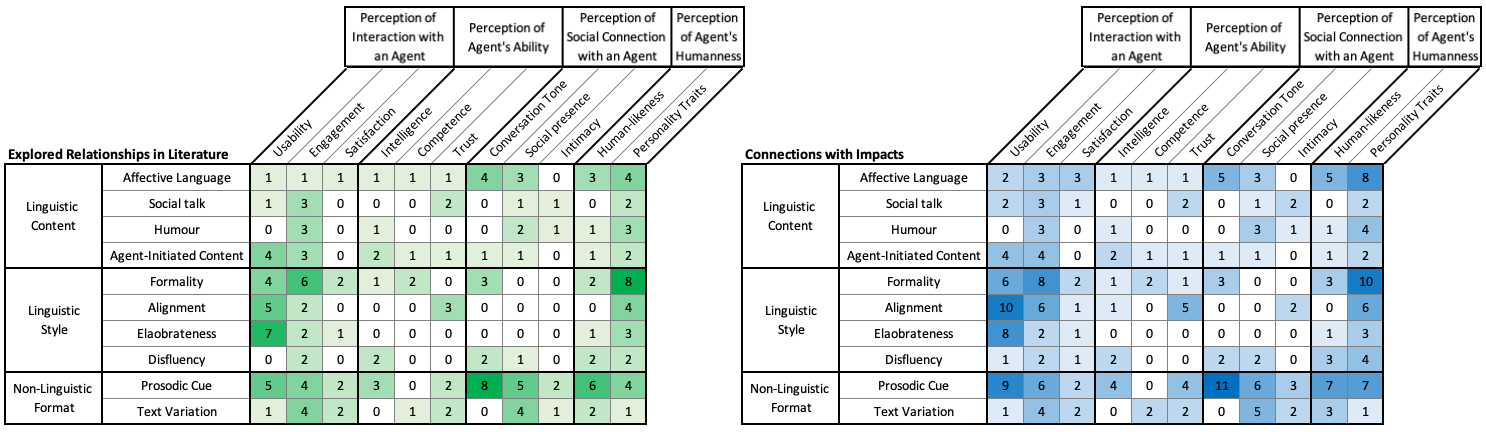
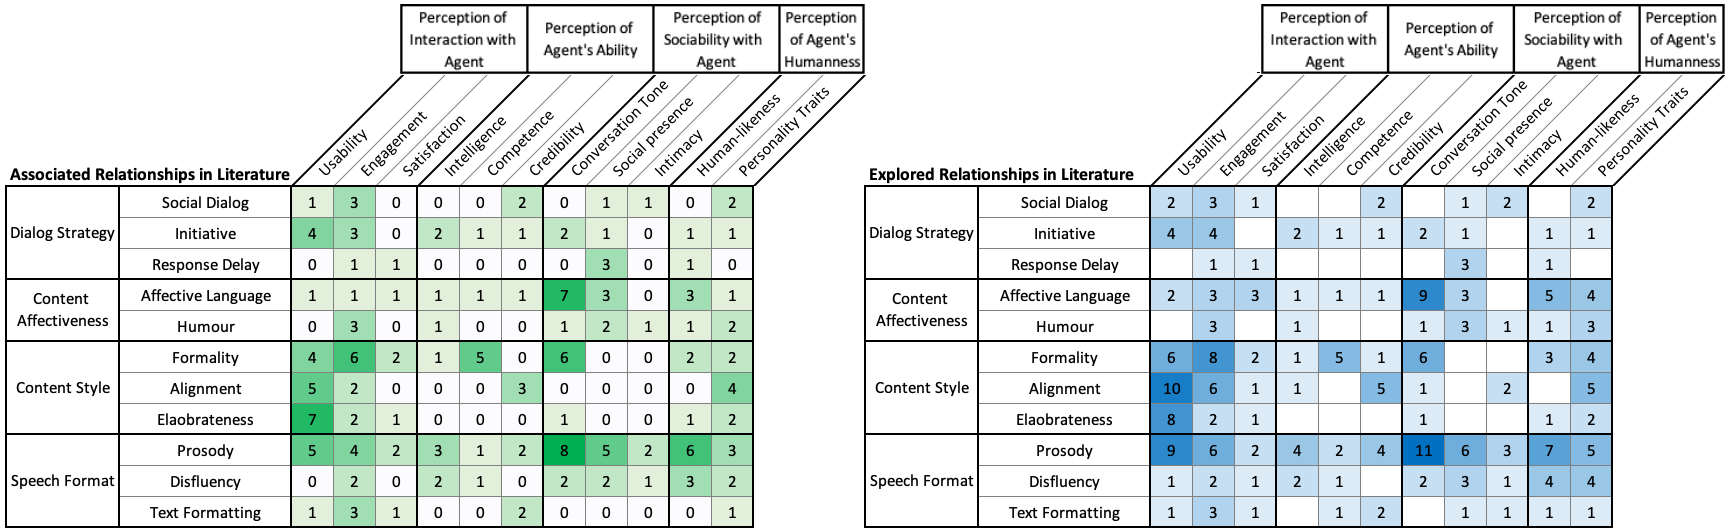
updated perception and architecture taxonomy based on AK feedback

diff --git a/paper.tex b/paper.tex
@@ -110,7 +110,7 @@
 %% other information printed in the page headers. This command allows
 %% the author to define a more concise list
 %% of authors' names for this purpose.
-\renewcommand{\shortauthors}{Anon}
+\renewcommand{\shortauthors}{Wei, Kim, Kuzminykh} %It will be automatically anonymized through the document class property anonymous
 
 %%
 %% The abstract is a short summary of the work to be presented in the
@@ -307,12 +307,12 @@ Overall there is a good coverage of different aspects of perception based on the
 \Xhline{1.2pt}
 \multicolumn{2}{l|}{\textbf{Perception Aspects}} & \textbf{Examples} & \textbf{No. Papers} & \textbf{Papers} 
 \\ \Xhline{1.2pt}
-\multirow{3}{*}{\parbox{0.16\textwidth}{Perception of Interaction with Agent}}
-    & Usability & accuracy, ease of use, efficiency, helpfulness & 23 
+\multirow{3}{*}{\parbox{0.17\textwidth}{Perception of \newline Interaction with Agent}}
+    & Usability & accuracy, ease of use, \newline efficiency, helpfulness & 23 
     & \cite{ashktorab2019resilient}\cmt{[88]}\cite{ceha2022expressive}\cmt{[77]}\cite{chan2021kinvoices}\cmt{[74]}\cite{choi2020nobody}\cmt{[54]}\cite{cuadra2021my}\cmt{[67]}\cite{dubiel2020persuasive}\cmt{[60]}\cite{elsholz2019exploring}\cmt{[61]}\cite{haas2022keep}\cmt{[78]}\cite{habler2019effects}\cmt{[63]}\cite{healey2013relating}\cmt{[39]}\cite{hu2022polite}\cmt{[76]}\cite{huiyang2022improving}\cmt{[17]}\cite{jestin2022effects}\cmt{[81]}\cite{kim2019comparing}\cmt{[89]}\cite{kim2020can}\cmt{[24]}
     \cite{kraus2020effects}\cmt{[64]}\cite{linnemann2018can}\cmt{[15]}\cite{ma2022ask}\cmt{[29]}\cite{miehle2018exploring}\cmt{[51]}\cite{misu2011toward}\cmt{[83]}\cite{roy2021users}\cmt{[71]}\cite{spillner2021talk}\cmt{[18]}\cite{wilhelm2022keep}\cmt{[28]}
 \\ \cline{2-5}
-    & Engagement & enjoyment, annoyance, desirable, intention to use  & 28
+    & Engagement & enjoyment, annoyance, \newline desirable, intention to use  & 28
     & \cite{andrews2012system}\cmt{[38]}\cite{ceha2022expressive}\cmt{[77]}\cite{ceha2021can}\cmt{[57]}\cite{chan2021kinvoices}\cmt{[74]}\cite{cox2022does}\cmt{[27]}\cite{cuadra2021my}\cmt{[67]}\cite{elsholz2019exploring}\cmt{[61]}\cite{fadhil2018effect}\cmt{[52]}\cite{gnewuch2022opposing}\cmt{[20]}\cite{go2021conversational}\cmt{[80]}\cite{healey2013relating}\cmt{[39]}\cite{huiyang2022improving}\cmt{[17]}\cite{jestin2022effects}\cmt{[81]}\cite{kim2020can}\cmt{[24]}\cite{kim2019comparing}\cmt{[89]}
     \cite{lee2020hear}\cmt{[23]}\cite{linnemann2018can}\cmt{[15]}\cite{ma2022ask}\cmt{[29]}\cite{miehle2018exploring}\cmt{[51]}\cite{miyamoto2017improving}\cmt{[46]}\cite{moilanen2022measuring}\cmt{[82]}\cite{roy2021users}\cmt{[71]}\cite{spillner2021talk}\cmt{[18]}\cite{volkel2021examining}\cmt{[69]}\cite{volkel2022user}\cmt{[75]}\cite{xiao2021let}\cmt{[73]}\cite{yang2021effect}\cmt{[72]}\cite{zhu2022effects}\cmt{[26]}    
 \\ \cline{2-5}
@@ -323,15 +323,16 @@ Overall there is a good coverage of different aspects of perception based on the
     & Intelligence & knowledgeable, intelligent, expertise & 11
     & \cite{ashktorab2019resilient}\cmt{[88]}\cite{ceha2021can}\cmt{[57]}\cite{chan2021kinvoices}\cmt{[74]}\cite{cuadra2021my}\cmt{[67]}\cite{dubiel2020persuasive}\cmt{[60]}\cite{feijoo2021effects}\cmt{[70]}\cite{hu2021enhancing}\cmt{[56]}\cite{jeong2019exploring}\cmt{[10]}\cite{spillner2021talk}\cmt{[18]}\cite{volkel2022user}\cmt{[75]}\cite{yang2017perceived}\cmt{[44]} 
 \\ \cline{2-5}
-    & Competence & competent, capable & 4 
-    & \cite{cox2022does}\cmt{[27]}\cite{kraus2020effects}\cmt{[64]}\cite{lee2019s}\cmt{[55]}\cite{westerman2019believe}\cmt{[9]}
+    & Competence & competent, appropriate & 6 
+    & \cite{cox2022does}\cmt{[27]}\cite{kraus2020effects}\cmt{[64]}\cite{jestin2022effects}\cmt{[81]}\cite{lee2019s}\cmt{[55]}\cite{misu2011toward}\cmt{[83]}\cite{westerman2019believe}\cmt{[9]}
 \\ \cline{2-5}
     & Trust & credibility, trustworthy, truthfulness, confidence & 15
     & \cite{andrews2012system}\cmt{[38]}\cite{chan2021kinvoices}\cmt{[74]}\cite{dubiel2020persuasive}\cmt{[60]}\cite{fadhil2018effect}\cmt{[52]}\cite{healey2013relating}\cmt{[39]}\cite{hoegen2019end}\cmt{[31]}\cite{huiyang2022improving}\cmt{[17]}\cite{jestin2022effects}\cmt{[81]}\cite{kraus2020effects}\cmt{[64]}\cite{lee2020hear}\cmt{[23]}\cite{linnemann2018can}\cmt{[15]}\cite{ma2022ask}\cmt{[29]}\cite{seeger2021chatbots}\cmt{[35]}\cite{tolmeijer2021female}\cmt{[62]}\cite{wilhelm2022keep}\cmt{[28]}    
 \\ \Xhline{1.2pt} 
-\multirow{3}{*}{\parbox{0.16\textwidth}{Perception of Social Connection with Agent}}
-    & Conversation Tone & appropriate, expressive, empathetic, persuasive & 13 
-    & \cite{chan2021kinvoices}\cmt{[74]}\cite{cox2022does}\cmt{[27]}\cite{cuadra2021my}\cmt{[67]}\cite{daher2020empathic}\cmt{[58]}\cite{diederich2019emulating}\cmt{[25]}\cite{dubiel2020persuasive}\cmt{[60]}\cite{hu2021enhancing}\cmt{[56]}\cite{jestin2022effects}\cmt{[81]}\cite{misu2011toward}\cmt{[83]}\cite{tolmeijer2021female}\cmt{[62]}\cite{yang2021effect}\cmt{[72]}\cite{yang2017perceived}\cmt{[44]}\cite{zhu2022effects}\cmt{[26]}
+\multirow{3}{*}{\parbox{0.16\textwidth}{Perception of \newline Sociability with Agent}}
+    & Conversation Tone & friendly, warm, empathetic, persuasive & 20 
+    & \cite{ashktorab2019resilient}\cmt{[88]}\cite{chan2021kinvoices}\cmt{[74]}\cite{cox2022does}\cmt{[27]}\cite{cuadra2021my}\cmt{[67]}\cite{daher2020empathic}\cmt{[58]}\cite{diederich2019emulating}\cmt{[25]}\cite{dubiel2020persuasive}\cmt{[60]}\cite{healey2013relating}\cmt{[39]}\cite{hu2021enhancing}\cmt{[56]}\cite{hu2022polite}\cmt{[76]}\cite{jestin2022effects}\cmt{[81]}\cite{khooshabeh2011does}\cmt{[37]}\cite{kim2019comparing}\cmt{[89]}\cite{lee2019s}\cmt{[55]}\cite{miehle2018exploring}\cmt{[51]}
+    \cite{moilanen2022measuring}\cmt{[82]}\cite{tolmeijer2021female}\cmt{[62]}\cite{yang2021effect}\cmt{[72]}\cite{yang2017perceived}\cmt{[44]}\cite{zhu2022effects}\cmt{[26]}
 \\ \cline{2-5}
     & Social Presence & connectedness, familiarity, psychological distance & 18
     & \cite{ceha2022expressive}\cmt{[77]}\cite{ceha2021can}\cmt{[57]}\cite{chan2021kinvoices}\cmt{[74]}\cite{choi2020nobody}\cmt{[54]}\cite{cuadra2021my}\cmt{[67]}\cite{diederich2019emulating}\cmt{[25]}\cite{gnewuch2018faster}\cmt{[19]}\cite{gnewuch2018chatbot}\cmt{[21]}\cite{gnewuch2022opposing}\cmt{[20]}\cite{go2021conversational}\cmt{[80]}\cite{khooshabeh2011does}\cmt{[37]}\cite{kim2020can}\cmt{[24]}\cite{lee2019s}\cmt{[55]}\cite{lubis2019positive}\cmt{[43]}\cite{lubold2016effects}\cmt{[86]}
@@ -341,13 +342,13 @@ Overall there is a good coverage of different aspects of perception based on the
     & \cite{choi2020nobody}\cmt{[54]}\cite{khooshabeh2011does}\cmt{[37]}\cite{kim2020can}\cmt{[24]}\cite{lee2020hear}\cmt{[23]}\cite{linnemann2018can}\cmt{[15]}\cite{lubold2016effects}\cmt{[86]}\cite{westerman2019believe}\cmt{[9]}
 \\ \Xhline{1.2pt}
 \multirow{2}{*}{\parbox{0.16\textwidth}{Perception of Agent's Humanness}}
-    & Human-likeness & human-like, natural, artificial, machine-like & 20
+    & Human-likeness & human-like, natural, \newline artificial, machine-like & 20
     & \cite{ashktorab2019resilient}\cmt{[88]}\cite{ceha2021can}\cmt{[57]}\cite{chan2021kinvoices}\cmt{[74]}\cite{choi2020nobody}\cmt{[54]}\cite{cox2022does}\cmt{[27]}\cite{diederich2019emulating}\cmt{[25]}\cite{gnewuch2018faster}\cmt{[19]}\cite{haas2022keep}\cmt{[78]}\cite{hu2022polite}\cmt{[76]}\cite{jeong2019exploring}\cmt{[10]}\cite{jestin2022effects}\cmt{[81]}\cite{lubis2019positive}\cmt{[43]}\cite{ma2022ask}\cmt{[29]}\cite{misu2011toward}\cmt{[83]}\cite{niewiadomski2013laugh}\cmt{[85]}
     \cite{ouchi2019should}\cmt{[59]}\cite{seeger2021chatbots}\cmt{[35]}\cite{wester2015artificial}\cmt{[14]}\cite{westerman2019believe}\cmt{[9]}\cite{zhu2022effects}\cmt{[26]}    
 \\ \cline{2-5}
-    & Personality Traits & friendly, kind, warm, creepy, likeable, polite & 27
-    & \cite{andrews2012system}\cmt{[38]}\cite{ashktorab2019resilient}\cmt{[88]}\cite{ceha2022expressive}\cmt{[77]}\cite{ceha2021can}\cmt{[57]}\cite{chan2021kinvoices}\cmt{[74]}\cite{cox2022does}\cmt{[27]}\cite{cuadra2021my}\cmt{[67]}\cite{haas2022keep}\cmt{[78]}\cite{habler2019effects}\cmt{[63]}\cite{healey2013relating}\cmt{[39]}\cite{hu2022polite}\cmt{[76]}\cite{huiyang2022improving}\cmt{[17]}\cite{jeong2019exploring}\cmt{[10]}\cite{jestin2022effects}\cmt{[81]}\cite{khooshabeh2011does}\cmt{[37]}
-    \cite{kim2019comparing}\cmt{[89]}\cite{lee2019s}\cmt{[55]}\cite{lee2020hear}\cmt{[23]}\cite{linnemann2018can}\cmt{[15]}\cite{miehle2018exploring}\cmt{[51]}\cite{moilanen2022measuring}\cmt{[82]}\cite{ouchi2019should}\cmt{[59]}\cite{tolmeijer2021female}\cmt{[62]}\cite{volkel2021manipulating}\cmt{[68]}\cite{volkel2022user}\cmt{[75]}\cite{wester2015artificial}\cmt{[14]}\cite{zhu2022effects}\cmt{[26]} 
+    & Personality Traits & likeable, kind, witty, funny, creepy & 20
+    & \cite{andrews2012system}\cmt{[38]}\cite{ceha2022expressive}\cmt{[77]}\cite{ceha2021can}\cmt{[57]}\cite{chan2021kinvoices}\cmt{[74]}\cite{cuadra2021my}\cmt{[67]}\cite{haas2022keep}\cmt{[78]}\cite{habler2019effects}\cmt{[63]}\cite{healey2013relating}\cmt{[39]}\cite{hu2022polite}\cmt{[76]}\cite{huiyang2022improving}\cmt{[17]}\cite{jeong2019exploring}\cmt{[10]}\cite{kim2019comparing}\cmt{[89]}\cite{lee2020hear}\cmt{[23]}\cite{linnemann2018can}\cmt{[15]}\cite{miehle2018exploring}\cmt{[51]}
+    \cite{ouchi2019should}\cmt{[59]}\cite{volkel2021manipulating}\cmt{[68]}\cite{volkel2022user}\cmt{[75]}\cite{wester2015artificial}\cmt{[14]}\cite{zhu2022effects}\cmt{[26]} 
 \\ \Xhline{1.2pt}
 \end{tabular}%
 }
@@ -375,37 +376,50 @@ Overall the spread of conversation architecture elements relevant to anthropomor
 \renewcommand*{\arraystretch}{1.4}
 \begin{tabular}{@{}p{0.17\textwidth} | p{0.14\textwidth} | p{0.25\textwidth} | >{\centering}p{0.09\textwidth} | p{0.34\textwidth} @{}}
 \Xhline{1.2pt}
-\textbf{Element Category} & \textbf{Element} & \textbf{Examples} & \textbf{No. Papers} & \textbf{Papers}
+\multicolumn{2}{l|}{\textbf{Conversation Architecture Elements}} & \textbf{Examples} & \textbf{No. Papers} & \textbf{Papers}
 \\ \Xhline{1.2pt}
-\multirow{4}{*}{Linguistic Content}    & Affective Language & emotional expressions, sentiment-adaptive responses & 11
-& \cite{daher2020empathic}\cmt{[58]}\cite{diederich2019emulating}\cmt{[25]}\cite{healey2013relating}\cmt{[39]}\cite{hu2022polite}\cmt{[76]}\cite{lee2019s}\cmt{[55]}\cite{lubis2019positive}\cmt{[43]}\cite{moilanen2022measuring}\cmt{[82]}\cite{seeger2021chatbots}\cmt{[35]}\cite{volkel2022user}\cmt{[75]}\cite{yang2017perceived}\cmt{[44]}\cite{zhu2022effects}\cmt{[26]}
-\\ \cline{2-5}
-& Social Talk & self-disclosure, social dialogue & 7
+\multirow{3}{*}{Dialog Strategy} & Social Dialog & social talk, self-disclosure  & 7
 & \cite{andrews2012system}\cmt{[38]}\cite{lee2020hear}\cmt{[23]}\cite{lubold2016effects}\cmt{[86]}\cite{moilanen2022measuring}\cmt{[82]}\cite{roy2021users}\cmt{[71]}\cite{volkel2021manipulating}\cmt{[68]}\cite{volkel2022user}\cmt{[75]}
 \\ \cline{2-5}
+
+& Initiative & proactive dialogue, conversation \newline repair & 4
+& \cite{ashktorab2019resilient}\cmt{[88]}\cite{cuadra2021my}\cmt{[67]}\cite{kraus2020effects}\cmt{[64]}\cite{xiao2021let}\cmt{[73]}
+\\ \cline{2-5}
+
+& Response Delay & response delay, typing indicator & 4
+& \cite{gnewuch2018faster}\cmt{[19]}\cite{gnewuch2018chatbot}\cmt{[21]}\cite{gnewuch2022opposing}\cmt{[20]}\cite{seeger2021chatbots}\cmt{[35]}
+\\ \Xhline{1.2pt}
+
+\multirow{2}{*}{Content Affectiveness} & Affective Language & emotional expressions, sentiment-adaptive responses & 11
+& \cite{daher2020empathic}\cmt{[58]}\cite{diederich2019emulating}\cmt{[25]}\cite{healey2013relating}\cmt{[39]}\cite{hu2022polite}\cmt{[76]}\cite{lee2019s}\cmt{[55]}\cite{lubis2019positive}\cmt{[43]}\cite{moilanen2022measuring}\cmt{[82]}\cite{seeger2021chatbots}\cmt{[35]}\cite{volkel2022user}\cmt{[75]}\cite{yang2017perceived}\cmt{[44]}\cite{zhu2022effects}\cmt{[26]}
+\\ \cline{2-5}
+
 & Humour & humorous content, jokes & 5
 & \cite{ceha2021can}\cmt{[57]}\cite{go2021conversational}\cmt{[80]}\cite{khooshabeh2011does}\cmt{[37]}\cite{miyamoto2017improving}\cmt{[46]}\cite{volkel2021manipulating}\cmt{[68]}
-\\ \cline{2-5}
-& Agent-Initiated Content & proactive dialogue, conversation repair & 4
-& \cite{ashktorab2019resilient}\cmt{[88]}\cite{cuadra2021my}\cmt{[67]}\cite{kraus2020effects}\cmt{[64]}\cite{xiao2021let}\cmt{[73]}
 \\ \Xhline{1.2pt}
-\multirow{4}{*}{Linguistic Style} & Formality & formal vs. casual, honorific expressions & 9
+
+\multirow{3}{*}{Content Style} & Formality & formal vs. casual, honorific \newline expressions & 9
 & \cite{cox2022does}\cmt{[27]}\cite{elsholz2019exploring}\cmt{[61]}\cite{habler2019effects}\cmt{[63]}\cite{jestin2022effects}\cmt{[81]}\cite{kim2019comparing}\cmt{[89]}\cite{ma2022ask}\cmt{[29]}\cite{moilanen2022measuring}\cmt{[82]}\cite{ouchi2019should}\cmt{[59]}\cite{volkel2022user}\cmt{[75]}
 \\ \cline{2-5}
-& Alignment & content matching, lexical alignment, agreeableness & 7
+
+& Alignment & content matching, lexical \newline alignment, agreeableness & 7
 & \cite{healey2013relating}\cmt{[39]}\cite{hoegen2019end}\cmt{[31]}\cite{huiyang2022improving}\cmt{[17]}\cite{linnemann2018can}\cmt{[15]}\cite{spillner2021talk}\cmt{[18]}\cite{volkel2021examining}\cmt{[69]}\cite{volkel2021manipulating}\cmt{[68]}
 \\ \cline{2-5}
-& Elaborateness & elaborate, concise, sentence structure & 6
+
+& Elaborateness & elaborate, concise, sentence \newline structure & 6
 & \cite{haas2022keep}\cmt{[78]}\cite{miehle2018exploring}\cmt{[51]}\cite{moilanen2022measuring}\cmt{[82]}\cite{roy2021users}\cmt{[71]}\cite{volkel2021manipulating}\cmt{[68]}\cite{volkel2022user}\cmt{[75]}
-\\ \cline{2-5}
-& Disfluency & fillers, interjections, repetitions & 6
-& \cite{ceha2022expressive}\cmt{[77]}\cite{hu2021enhancing}\cmt{[56]}\cite{jeong2019exploring}\cmt{[10]}\cite{niewiadomski2013laugh}\cmt{[85]}\cite{wester2015artificial}\cmt{[14]}\cite{yang2021effect}\cmt{[72]}
 \\ \Xhline{1.2pt}
-\multirow{2}{*}{Non-Linguistic Format} & Prosodic Cue & pitch, intonation, speech rate, spoken accent & 12
+
+\multirow{3}{*}{Speech Format} & Prosody & pitch, intonation, speech rate, \newline spoken accent & 12
 & \cite{chan2021kinvoices}\cmt{[74]}\cite{choi2020nobody}\cmt{[54]}\cite{dubiel2020persuasive}\cmt{[60]}\cite{feijoo2021effects}\cmt{[70]}\cite{habler2019effects}\cmt{[63]}\cite{hu2021enhancing}\cmt{[56]}\cite{jestin2022effects}\cmt{[81]}\cite{kim2020can}\cmt{[24]}\cite{lubold2016effects}\cmt{[86]}\cite{misu2011toward}\cmt{[83]}\cite{tolmeijer2021female}\cmt{[62]}\cite{zhu2022effects}\cmt{[26]}
 \\ \cline{2-5}
-& Text Variation & typo, capitalization, emoticons, response delay & 9
-& \cite{fadhil2018effect}\cmt{[52]}\cite{gnewuch2018faster}\cmt{[19]}\cite{gnewuch2018chatbot}\cmt{[21]}\cite{gnewuch2022opposing}\cmt{[20]}\cite{kim2019comparing}\cmt{[89]}\cite{seeger2021chatbots}\cmt{[35]}\cite{volkel2022user}\cmt{[75]}\cite{westerman2019believe}\cmt{[9]}\cite{wilhelm2022keep}\cmt{[28]}
+
+& Disfluency & fillers, interjections, repetitions, \newline typos & 7
+& \cite{ceha2022expressive}\cmt{[77]}\cite{hu2021enhancing}\cmt{[56]}\cite{jeong2019exploring}\cmt{[10]}\cite{niewiadomski2013laugh}\cmt{[85]}\cite{wester2015artificial}\cmt{[14]}\cite{westerman2019believe}\cmt{[9]}\cite{yang2021effect}\cmt{[72]}
+\\ \cline{2-5}
+
+& Text Formatting & capitalization, emoticons & 6
+& \cite{fadhil2018effect}\cmt{[52]}\cite{kim2019comparing}\cmt{[89]}\cite{seeger2021chatbots}\cmt{[35]}\cite{volkel2022user}\cmt{[75]}\cite{westerman2019believe}\cmt{[9]}\cite{wilhelm2022keep}\cmt{[28]}
 \\ \Xhline{1.2pt}
 \end{tabular}%
 }
